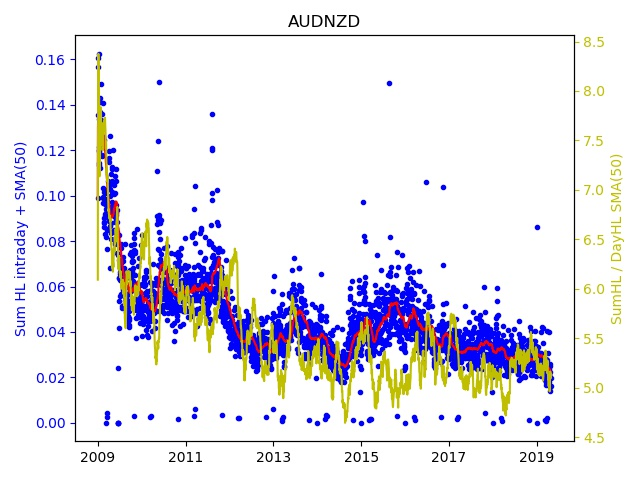
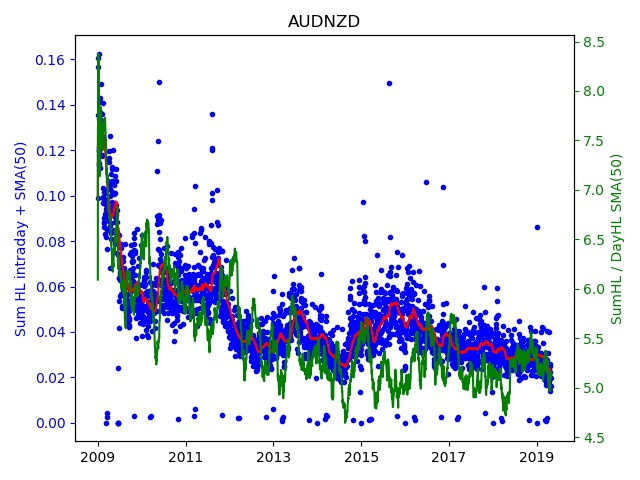
Adding different SMA periods for Sum HL and Day HL

diff --git a/main.py b/main.py
@@ -9,6 +9,7 @@ from dateutil import parser
 DATADIR = "data"
 OUTDIR = "out"
 SMAperiod = 50
+Kperiod = 50
 # ==============================
 
 
@@ -80,7 +81,7 @@ def saveChartToPDF(data, filename, short):
     sumHL = [float(i[2]) for i in data]
     K = [float(i[4]) for i in data]
     sma = getSMA(sumHL, SMAperiod)
-    Ksma = getSMA(K, SMAperiod)
+    Ksma = getSMA(K, Kperiod)
 
     fig, ax1 = plt.subplots()
 
@@ -92,8 +93,8 @@ def saveChartToPDF(data, filename, short):
     ax1.tick_params('y', colors='b')
 
     ax2 = ax1.twinx()
-    ax2.plot(date, Ksma, 'y-')
-    ax2.set_ylabel('SumHL / DayHL SMA(' + str(SMAperiod) + ')', color='g')
+    ax2.plot(date, Ksma, 'g-')
+    ax2.set_ylabel('SumHL / DayHL SMA(' + str(Kperiod) + ')', color='g')
     ax2.tick_params('y', colors='g')
 
     fig.tight_layout()
